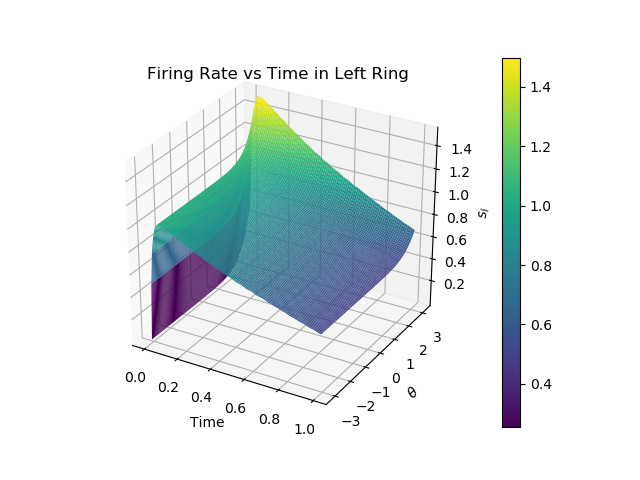
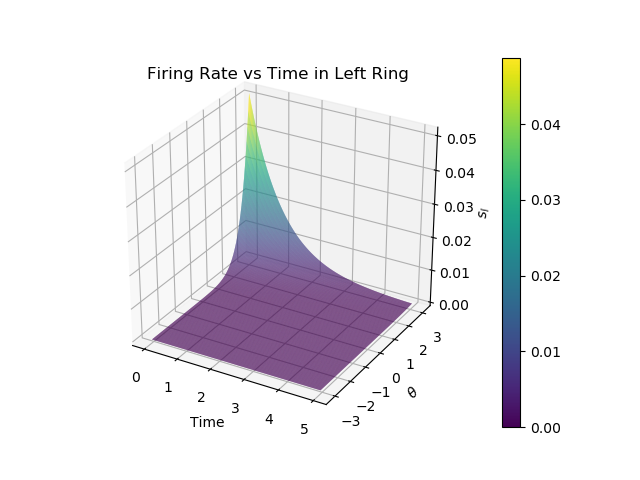
Commit with latest initial condition maker in place. Moving to jupyter notebook also.

diff --git a/doubleRing/manyNodes/many_node_twoRing.py b/doubleRing/manyNodes/many_node_twoRing.py
@@ -45,9 +45,9 @@ def ws(theta):
     Arguments: 
             Theta: the midpoint of our discretization intervals
     """
-    [J0, J1] = [-60, 80]
+    [J0, J1] = [-60, 30]
     # can change the offset connection points with these angles below
-    phiDeg = 90
+    phiDeg = 89
     psiDeg = 45
     phi = phiDeg*(np.pi)/180
     psi = psiDeg*(np.pi)/180
@@ -64,7 +64,7 @@ def wd(theta):
     """
     [K0, K1] = [-5, 80]
     # can change the offset connection points with these angles below
-    phiDeg = 90
+    phiDeg = 89
     psiDeg = 45
     phi = phiDeg*(np.pi)/180
     psi = psiDeg*(np.pi)/180
@@ -87,7 +87,15 @@ def ic_maker_erf(spatial_discretizations):
     n = 2*spatial_discretizations
     midpoints, intervals = thetaDivider(-np.pi, np.pi, n, n)
     s0 = (2/np.pi)*np.exp(-(midpoints-(np.pi/2))**2)
-    #s0 = midpoints
+    return s0
+
+
+def ic_maker_periodic(spatial_discretizations):
+    n = 2*spatial_discretizations
+    midpoints, intervals = thetaDivider(-np.pi, np.pi, spatial_discretizations, spatial_discretizations)
+    midpoints = np.concatenate((midpoints, midpoints))
+    s0 = np.sin(midpoints)
+    s0 = np.maximum(s0, 0)
     return s0
 
 
@@ -120,9 +128,9 @@ def SYS(t, S):
     i = 0
     while i < 2*spatial_num:
         if i < spatial_num:
-            states[i] = -S[i] + np.maximum(theta_step*((1/(2*np.pi)))*np.dot(weightVecL, S) + bl, 0) 
+            states[i] = -S[i] + (np.maximum(theta_step*((1/(2*np.pi)))*np.dot(weightVecL, S) + bl, 0))/Tau 
         if i >= spatial_num:
-            states[i] = -S[i] + np.maximum(theta_step*((1/(2*np.pi)))*np.dot(weightVecR, S) + br, 0) 
+            states[i] = -S[i] + (np.maximum(theta_step*((1/(2*np.pi)))*np.dot(weightVecR, S) + br, 0))/Tau 
         i = i + 1
     return states
 
@@ -130,20 +138,23 @@ def SYS(t, S):
 if __name__=='__main__':
     ## PARAMTERS TO CHANGE:______________________________________________________________________________
     # set number of spatial discretizations in each ring, must be an even number                       #|
-    spatial_num = 100                                                                              
+    spatial_num = 100                                                                          
                                                                                                        #|
     # handles impulse or change to firing rates.                                                       #|
-    b0 = 40                                                                                            #|
-    delta_b = 30                                                                                       #|
+    b0 = -40                                                                                            #|
+    delta_b = 20                                                                                       #|
     br = b0 + delta_b                                                                                  #|   
     bl = b0 - delta_b                                                                                  #|
                                           
+    # time constant Tau
+    Tau = 80
                                                                                                        #| 
     # what time window should the PDE be approximated on                                               #|
-    t_span = [0, 1]     
-    time_density = 100 #number of time snapshots soln is saved at in tspan                             #|
-    s0 = 10*ic_maker_erf(spatial_num)
+    t_span = [0, 5]     
+    time_density = 1000 #number of time snapshots soln is saved at within tspan                        #|
+    #s0 = 10*ic_maker_erf(spatial_num)
     #s0 = ic_maker_enum(spatial_num)
+    s0 = ic_maker_erf(spatial_num)
     ## END CHANGABLE PARAMETERS. (Can also edit initial conditions in function ic_maker)_______________#|
 
 
@@ -160,23 +171,23 @@ if __name__=='__main__':
     # setting dense_output to True computes a continuous solution. Default is false.
     sol = solve_ivp(SYS, t_span, s0, t_eval=t, dense_output=False)
 
-    # testing print statements        
-    print(time.shape)
-    print(theta_space.shape)
-    print(sol.y.shape)
-    print(sol.y[0:spatial_num, :].shape)
+    # testing print statements        ------
+    #print(time.shape)
+    #print(theta_space.shape)
+    #print(sol.y.shape)
+    #print(sol.y[0:spatial_num, :].shape)
 
-    print(time)
-    print(theta_space)
-    print(sol.y)
-    print("Slcing now:")
+    #print(time)
+    #print(theta_space)
+    #print(sol.y)
+    #print("Slcing now:")
     
     # pulls left ring soln
     print(sol.y[0:spatial_num, :])
     print("__________")
     # pulls right ring soln
     print(sol.y[spatial_num: , :])
-    # end testing print statements
+    # end testing print statements       ------
 
     # plot the left ring
     fig1 = plt.figure()
@@ -200,7 +211,7 @@ if __name__=='__main__':
     ax.set_title("Firing Rate vs Time in Right Ring")
     ax.set_xlabel('Time')
     ax.set_ylabel(r'$\theta$')
-    ax.set_zlabel(r'$s_l$')
+    ax.set_zlabel(r'$s_r$')
     #ax.view_init(30, 132) #uncomment to see backside
     plt.colorbar(surf)
     filename = 'RR_' + str(spatial_num) + '.png'
